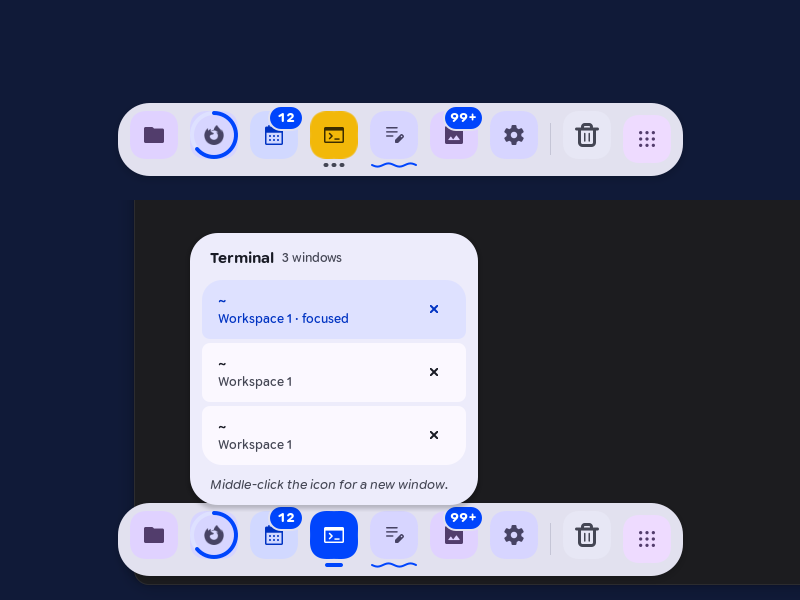
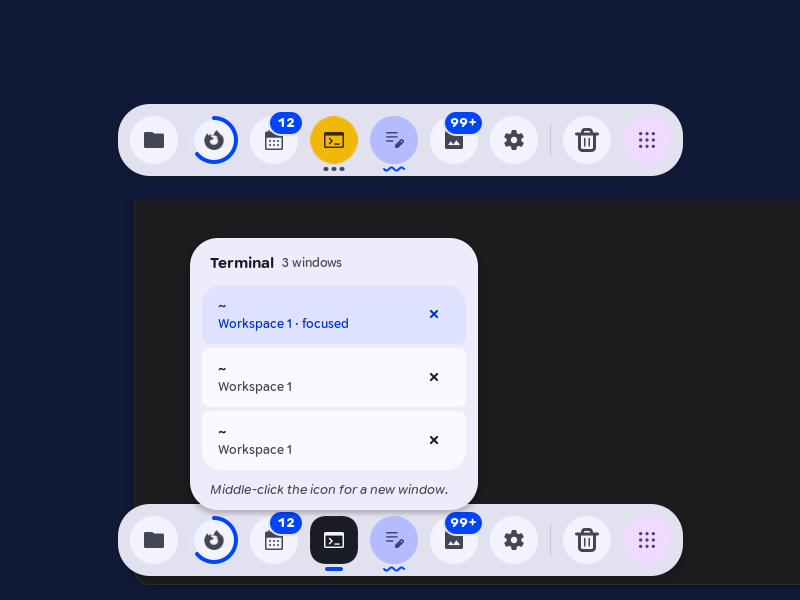
Document round tiles, ink focus, light dock and long handle, with new pictures

diff --git a/README.md b/README.md
@@ -29,7 +29,7 @@ Harbor sends no notifications, reads nothing from the network and keeps one smal
 
 - **Eleven Styles:** From a floating bar to pebbles, an edge-to-edge rail or a split by workspace (see [The Styles](#the-styles)).
 - **Pinned and Running:** Pinned apps first, then apps that run without being pinned, then drives, the trash and **Show apps**.
-- **Symbols on Tiles:** Every app rests on a tile in its own tone, with a flat symbol in one colour: brand logos for apps like **Firefox**, **Claude** or **LibreOffice**, Material symbols for the rest. The focused app's tile turns primary and glides from app to app (see [Symbols](#symbols)).
+- **Symbols on Round Tiles:** Every app rests on a round tile with a flat symbol in one colour: brand logos for apps like **Firefox**, **Claude** or **LibreOffice**, Material symbols for the rest. Closed apps share one quiet colour, running apps show their own tone, and the focused app is a black square (white in dark mode) that glides from app to app (see [Symbols](#symbols)).
 - **Expressive Motion:** The dock rises as a pill from the middle of the edge, spreads to both sides with a swing, and lets the icons pop up from the middle outwards (see [Motion](#motion)).
 - **Clicks That Adapt:** One click starts, focuses or minimises; an app with several windows shows a **window list** instead of pictures of windows.
 - **Making Room:** The dock steps aside when a window of the app in front comes close, and returns when the pointer rests on the edge. A thin handle can stay behind, per style.
@@ -50,9 +50,9 @@ Harbor sends no notifications, reads nothing from the network and keeps one smal
 
 | Style | What it looks like | What is special |
 | :--- | :--- | :--- |
-| **Floating bar** | A rounded bar floating above the edge | The default. The focused app's tile is a primary one that glides from app to app. |
+| **Floating bar** | A rounded bar floating above the edge | The default. The focused app's tile is an ink square that glides from app to app; the run line hangs under the tiles in the bar's padding. |
 | **Shape stage** | A pill; every app stands on a shape | The shape is the run indicator: a circle while closed, more points with more windows. |
-| **Grouped block** | Three named groups instead of one bar | The focused app's segment turns fully round and fills with the primary colour. |
+| **Grouped block** | Three named groups instead of one bar | The focused app's segment turns fully round and fills with ink (or primary, with **Ink focus** off). |
 | **Expressive rail** | A rail along the whole edge | The focused app unfolds into a pill with its name. Always keeps its room unless set to **Hide**. |
 | **Status** | The floating bar | Status is said out loud: "64 % downloaded", "Wants attention", even with **Counts on icons** off. |
 | **Quiet handle** | A compact, calmer bar | Less padding and softer corners; made for a dock that is often away. |
@@ -110,9 +110,12 @@ With **Symbolic icons** off, the apps' own colour icons rest on the same tiles. 
 | **Where the dock sits** | Left, **Bottom**, Right | The screen edge. |
 | **Handle when away** | **On**, Off, for each style on its own | A thin grip stays at the edge while the dock is away. |
 | **Show on hover** | **On**, Off | Resting on the handle brings the dock; off, it takes a click. |
+| **Long handle** | On, **Off** | The handle is **192 px** long instead of **96 px**. |
 | **Icon size** | Small 40, **Medium 48**, Large 56, Huge 64 | The size of an app's tile; the symbol on it is half as large. Everything in a style scales with it. |
 | **When a window comes close** | Stay, **Make room**, Hide | **Stay** keeps the dock and its room; windows maximise up to it. **Make room** steps aside while a window of the app in front overlaps it. **Hide** stays away until you need it. |
 | **Symbolic icons** | **On**, Off | Flat symbols in the dock's colours instead of the apps' own icons (see [Symbols](#symbols)). |
+| **Ink focus** | **On**, Off | The focused app is black, in dark mode white; off, it takes the primary colour. |
+| **Light dock** | On, **Off** | The dock, its menus and tooltips stay light when the desktop is dark. The top bar menu still follows the desktop. |
 | **See-through** | On, **Off** | The bars at **78 %**, as in **Ledge**. |
 | **Expressive motion** | **On**, Off | Springs for appearing, going and every state; off, the dock slides as calmly as before. |
 | **Speed of motion** | Quick, **Normal**, Slow | About **350**, **500** or **700 ms** for the dock to appear; all motion follows. |
@@ -143,7 +146,7 @@ journalctl -f -o cat /usr/bin/gnome-shell | grep Harbor
 | **A new style** | It shows itself with its own appearing, even on a dock that is away. |
 | **Starting an app** | Its tile breathes between circle and cookie and the symbol hops, until the window comes (at most **10 s**). |
 | **A new or closed app** | Its neighbours move apart and it grows in, or it shrinks and they close up. |
-| **Focus** | The primary tile glides to the next app, as a cookie on the way, and follows it if it moves. |
+| **Focus** | The ink square glides to the next app, as a cookie on the way, and follows it if it moves. |
 | **Hover and click** | The tile morphs into a cookie and the symbol lifts **4 px**; a press pushes the tile in and it springs back. |
 | **Counts and attention** | A new count pops and counts up; an app that waits wiggles every **4 s** and pulses. |
 
@@ -251,6 +254,7 @@ Colours come from **`extension/lib/palettes.js`**: each style is Material 3's **
 | :--- | :--- |
 | **Unit tests** | `for t in tests/*.test.js; do gjs -m "$t"; done` |
 | **Motion frame by frame** | `HARBOR_ONLY="floating-bar pebbles" tools/headless/run.sh motion 190` |
+| **Look switches on a dark desktop** | `HARBOR_SCHEME=dark tools/headless/run.sh look` |
 | **Stylesheet** | `gjs -m tools/build-stylesheet.js` |
 | **Symbols** | `gjs -m tools/build-symbols.js` fetches the list in **`tools/symbols.list.js`** from **jsDelivr** at fixed versions and writes **`extension/symbols`** |
 | **Headless shell** | `tools/headless/run.sh <script> [seconds]` with a script from **`tools/headless/scripts`**; screenshots land in **`$TMPDIR/harbor-headless`** |
@@ -263,8 +267,9 @@ Colours come from **`extension/lib/palettes.js`**: each style is Material 3's **
 
 | Area | Evidence |
 | :--- | :--- |
-| **Settings, shapes, springs, words, layout rules, matching symbols to app ids** | ***Tested:*** 56 unit tests, 26 real app ids among them. |
+| **Settings, shapes, springs, words, layout rules, matching symbols to app ids** | ***Tested:*** 57 unit tests, 26 real app ids among them. |
 | **Symbols on tiles in every style, the picker, choosing, Automatic, Symbolic icons off, symbols in the top bar menu** | ***Tested*** in the headless shell (`styles`, `symbols` scripts), light and dark. |
+| **Round tiles centred in the bar, ink focus, light dock on a dark desktop, long handle** | ***Tested*** in the headless shell (`styles` at every edge, `look` script). |
 | **Appearing and going in every style, focus gliding, hover, start, attention, counts** | ***Tested*** in the headless shell, frame by frame in slow motion (`motion` script). |
 | **Make room for the app in front, edge, handle per style, see-through, minimising into the icon** | ***Tested*** in the headless shell (`behave` script). |
 | **All eleven styles at three edges, light and dark** | ***Tested*** in the headless shell by screenshot. |
@@ -281,6 +286,8 @@ Colours come from **`extension/lib/palettes.js`**: each style is Material 3's **
 
 - **Colours through one stylesheet class per scheme, not only `set_style()`:** St has no CSS variables, so the stylesheet is written once per colour and scheme and a colour change swaps one class. Hover and focus states keep working this way. Values that scale or animate are set in code.
 - **Symbols on tiles, as in the design:** Free colour icons made the dock look like Dash to Dock. Every app rests on a tile in its tone (**primary**, **secondary** or **tertiary container**, chosen from its app id) with a flat symbol; a colour icon on a tile looked cramped, a symbol does not.
+- **Round tiles and an ink focus:** After a first try on the laptop the tiles became circles, as round as the shapes around them, and the focused app a black (in dark mode white) square, the strongest mark the dock has. Only running apps carry a tone, so the dock says at a glance what runs.
+- **Light dock is a view of the theme, not a second theme:** the dock reads the same colour style with the scheme held at light; the top bar menu keeps following the desktop.
 - **Symbols shipped as files, nothing at run time:** Brand logos come from **Simple Icons** (CC0), the rest from **Material Symbols** (Apache 2.0); the build script removes their fills so the shell paints them in the tile's colour.
 - **Bars painted behind the buttons:** A bar is drawn by a stand-in on a layer below the icons, so it can spread from a pill and a focus shape can glide between it and the icons.
 - **Resting on the edge instead of a push:** A push of 100 px was hard on a touchpad; 200 ms on the last row is as hard to set off by passing by.
